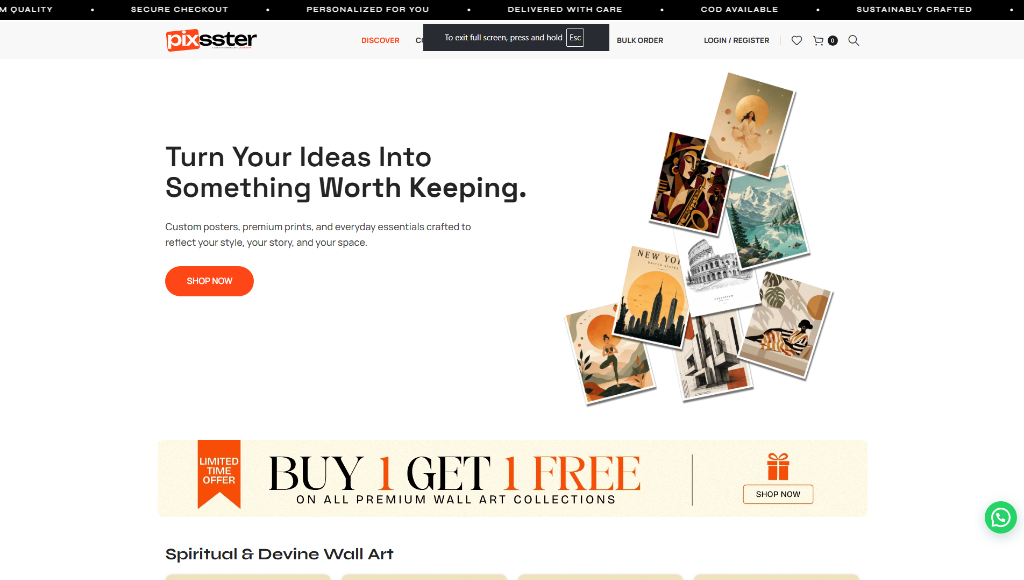
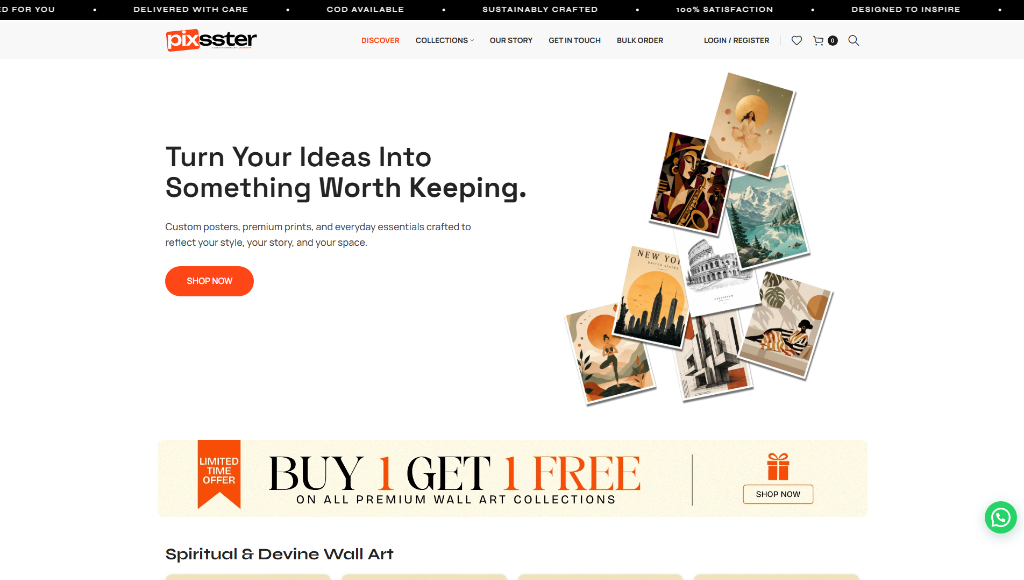
image change and ui fix

diff --git a/src/main.jsx b/src/main.jsx
@@ -65,7 +65,7 @@ const projects = [
     slug: 'ember-and-mist',
     type: 'Restaurant / Booking',
     category: 'WordPress',
-    image: '/projects/ember-and-mist.jpg',
+    image: '/projects/ember-and-mist.png',
     url: 'https://em.emberandmist.com/',
     desc: 'Polished hospitality website with a booking-focused customer journey.',
     headline: 'HOSPITALITY & DINING',
@@ -796,7 +796,7 @@ function HeroShowcase() {
     {
       tab: 'Online Booking',
       client: 'Ember & Mist',
-      image: '/projects/ember-and-mist.jpg',
+      image: '/projects/ember-and-mist.png',
       category: 'Hospitality & Dining',
       headline: 'SEAMLESS RESERVATIONS',
       sub: 'Mobile-first menu presentation and table reservation flow.',
@@ -831,10 +831,17 @@ function HeroShowcase() {
           <div className="browser-dots">
             <i /><i /><i />
           </div>
-          <div className="hero-url-bar">
+          <a
+            href="https://nikhilportfolio-hazel.vercel.app/"
+            target="_blank"
+            rel="noopener noreferrer"
+            className="hero-url-bar"
+            title="Open live site: https://nikhilportfolio-hazel.vercel.app/"
+          >
             <span>🔒</span>
-            <small>nikhilmalviya.dev/{current.client.toLowerCase()}</small>
-          </div>
+            <small>nikhilportfolio-hazel.vercel.app</small>
+            <FiExternalLink className="hero-url-ext-icon" />
+          </a>
           <span className="hero-pill-badge">{current.metric}</span>
         </div>
 
@@ -862,7 +869,19 @@ function HeroShowcase() {
           )}
           <div className="hero-preview-top">
             <span className="hero-client-name">{current.client}</span>
-            <span className="hero-cat-pill">{current.category}</span>
+            <div className="hero-preview-top-actions">
+              <span className="hero-cat-pill">{current.category}</span>
+              <a
+                href="https://nikhilportfolio-hazel.vercel.app/"
+                target="_blank"
+                rel="noopener noreferrer"
+                className="hero-live-badge"
+                title="Open live site: https://nikhilportfolio-hazel.vercel.app/"
+              >
+                <span>Live Site</span>
+                <FiArrowUpRight />
+              </a>
+            </div>
           </div>
 
           <div className="hero-preview-center">

diff --git a/src/styles.css b/src/styles.css
@@ -297,15 +297,41 @@ h1, h2, h3, p { margin-top: 0; }
   display: flex;
   align-items: center;
   gap: 6px;
-  background: rgba(0, 0, 0, 0.3);
-  padding: 3px 12px;
+  background: rgba(0, 0, 0, 0.4);
+  border: 1px solid rgba(255, 255, 255, 0.12);
+  padding: 4px 12px;
   border-radius: 999px;
   font-size: 10px;
-  color: #a8a59c;
+  color: #c9c6bc;
+  text-decoration: none;
+  transition: all 0.2s ease;
+  cursor: pointer;
+  max-width: 65%;
+}
+.hero-url-bar:hover {
+  background: rgba(255, 255, 255, 0.14);
+  color: #fff;
+  border-color: rgba(199, 242, 53, 0.5);
+  transform: translateY(-1px);
 }
 .hero-url-bar small {
   font-family: 'Space Mono', monospace;
   letter-spacing: 0.04em;
+  white-space: nowrap;
+  overflow: hidden;
+  text-overflow: ellipsis;
+}
+.hero-url-ext-icon {
+  width: 10px;
+  height: 10px;
+  opacity: 0.65;
+  flex-shrink: 0;
+  transition: opacity 0.2s, transform 0.2s;
+}
+.hero-url-bar:hover .hero-url-ext-icon {
+  opacity: 1;
+  color: var(--accent);
+  transform: translate(1px, -1px);
 }
 
 .hero-pill-badge {
@@ -410,6 +436,11 @@ h1, h2, h3, p { margin-top: 0; }
   text-transform: uppercase;
   color: rgba(255, 255, 255, 0.85);
 }
+.hero-preview-top-actions {
+  display: flex;
+  align-items: center;
+  gap: 8px;
+}
 .hero-cat-pill {
   font: 9px 'Space Mono', monospace;
   padding: 3px 9px;
@@ -417,6 +448,29 @@ h1, h2, h3, p { margin-top: 0; }
   border-radius: 999px;
   color: #dcd8cf;
   letter-spacing: 0.08em;
+}
+.hero-live-badge {
+  display: inline-flex;
+  align-items: center;
+  gap: 4px;
+  font: 9px 'Space Mono', monospace;
+  padding: 3px 9px;
+  background: rgba(199, 242, 53, 0.18);
+  border: 1px solid rgba(199, 242, 53, 0.4);
+  color: var(--accent);
+  border-radius: 999px;
+  text-decoration: none;
+  font-weight: 700;
+  transition: all 0.2s ease;
+}
+.hero-live-badge:hover {
+  background: var(--accent);
+  color: var(--ink);
+  transform: translateY(-1px);
+}
+.hero-live-badge svg {
+  width: 9px;
+  height: 9px;
 }
 
 .hero-preview-center {
